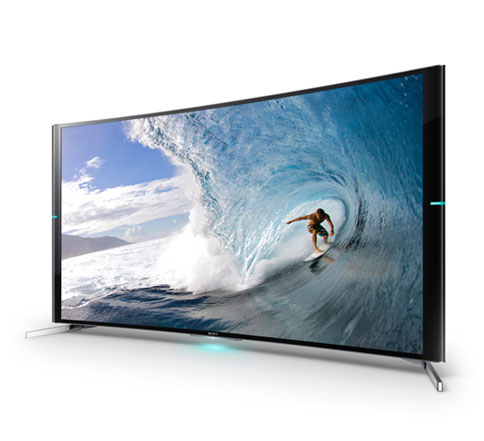
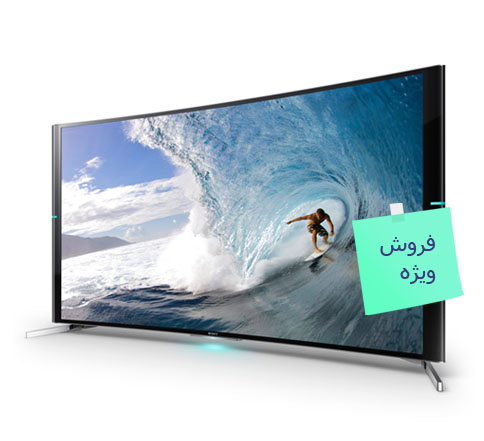
some changes on design

Changed region(s): [[0.7128, 0.4422, 0.9607, 0.737]]

diff --git a/index.html b/index.html
@@ -174,12 +174,14 @@
                             <div class="col-sm-6" dir="rtl">
                                 <h1><span>KURD</span>-KALA</h1>
                                 <p>فروشگاه آنلاین </p>
-                                <p>توضیحات مربوط به این کالا </p>
+                                <p>فروش ویژه عید محصولات ساسونگ.
+                                    تلویزیون های خمیده</p>
+
                                 <button type="button" class="btn btn-default get">سفارش</button>
                             </div>
                             <div class="col-sm-6">
                                 <img src="images/home/girl1.jpg" class="girl img-responsive" alt="" />
-                                <img src="images/home/pricing.png"  class="pricing" alt="" />
+
                             </div>
                         </div>
                         <div class="item">
@@ -187,7 +189,7 @@
                                 <h1><span>KURD</span>-KALA</h1>
                                 <p>فروشگاه آنلاین </p>
                                 <p>توضیحات مربوط به این کالا </p>
-                                <button type="button" class="btn btn-default get">سفارش</button>
+                                <button type="button" class="btn btn-default get"><?php echo "moeid jan";?></button>
                             </div>
                             <div class="col-sm-6">
                                 <img src="images/home/girl2.png" class="girl img-responsive" alt="" />
@@ -204,7 +206,7 @@
                             </div>
                             <div class="col-sm-6">
                                 <img src="images/home/girl3.png" class="girl img-responsive" alt="" />
-                                <img src="images/home/pricing.png" class="pricing" alt="" />
+
                             </div>
                         </div>
 

diff --git a/cart.html b/cart.html
@@ -309,8 +309,35 @@
 						</tr>
 						</tbody>
 					</table>
-					<button type="button" class="btn btn-success" style="margin-left: 20px;margin-bottom: 20px">تایید و ادامه خرید</button>
-					<button type="button" class="btn btn-danger" style="margin-left: 20px;margin-bottom: 20px">انصراف</button>
+					<button type="button" class="btn btn-success" style="margin-left: 20px;margin-bottom: 20px" data-toggle="modal" data-target="#myModal">تایید و ادامه خرید</button>
+					<button type="button" class="btn btn-danger" style="margin-left: 20px;margin-bottom: 20px" >انصراف</button>
+					<!-- Modal -->
+					<div class="modal fade" id="myModal" role="dialog">
+						<div class="modal-dialog modal-lg">
+
+							<!-- Modal content-->
+							<div class="modal-content">
+								<div class="modal-header">
+									<button type="button" class="close" data-dismiss="modal">&times;</button>
+									<h4 class="modal-title" dir="auto">اطلاعات ارسال</h4>
+								</div>
+								<div class="modal-body">
+									<div class="form-group">
+
+										<div class="col-sm-10">
+											<input dir="rtl" class="form-control" id="pwd" placeholder="آدرس ...">
+
+										</div>
+
+									</div>
+								</div>
+								<div class="modal-footer">
+									<button type="button" class="btn btn-default" data-dismiss="modal">بستن</button>
+								</div>
+							</div>
+
+						</div>
+					</div>
 				</div>
 
 
